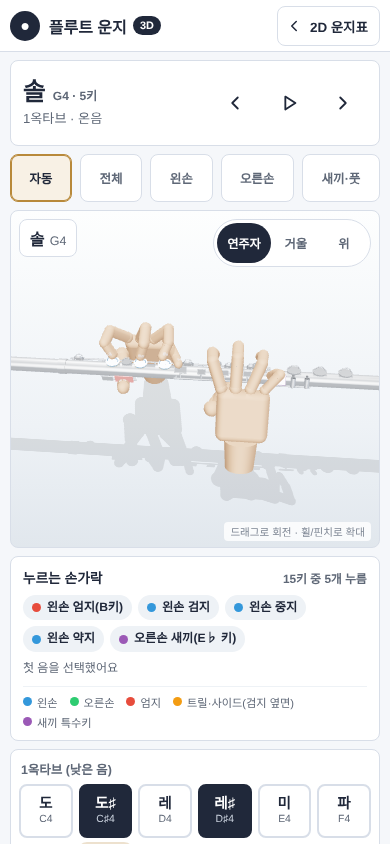
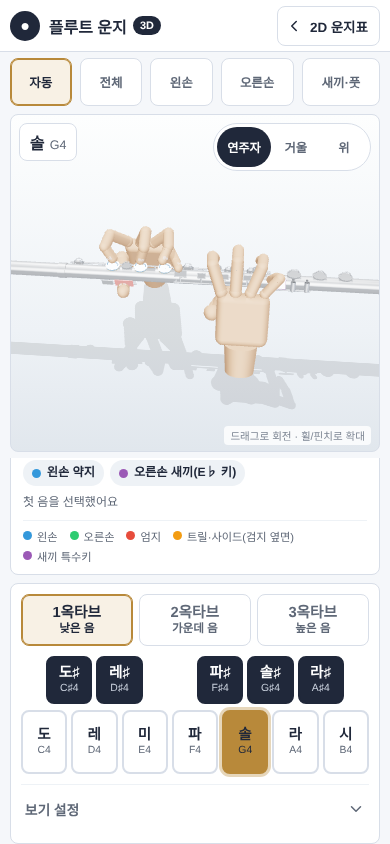
Simplify the 3D view's right panel
The panel showed 37 note buttons (dark/white mixed) plus four display
toggles at once, which pulled attention away from the 3D model.

- Show one octave's keyboard at a time: an octave switch (1/2/3) and a
  piano-style layout (naturals on the bottom row, sharps on the top row,
  offset between the naturals). Only the 3rd octave has the extra C7 key.
- Octave buttons move the current note to the same pitch class in that
  octave (same as the up/down arrow keys), so the selected key is always
  visible. Keyboard, prev/next and autoplay keep the keyboard in sync.
- The selected note is one gold key; the check badge is gone.
- Fold the display options into a collapsed "보기 설정" with four
  role="switch" rows and plain-language descriptions. The keyboard hint
  moves inside it and stays hidden on touch devices.
- Hover styles are limited to hover-capable devices; forced-colors and
  reduced-motion are handled.
- Update docs/3d-view.md and the 3D QA screenshots.

The fingering data block and qa/check-3d-data.mjs are untouched.

Claude-Session: https://claude.ai/code/session_01AGBZvwWJVfQoH8o65SEwUy

diff --git a/3d.html b/3d.html
@@ -152,42 +152,67 @@ main#app-main{width:min(100%,1280px);margin:0 auto;padding:8px 10px 24px;display
 .legend span{display:inline-flex;align-items:center;gap:5px}
 .legend i{width:9px;height:9px;border-radius:50%;display:inline-block}
 
-#side-panel{display:flex;flex-direction:column;gap:8px}
-#selector3d{padding:8px;background:var(--surface);border:1px solid var(--line);border-radius:var(--radius)}
-.octave + .octave{margin-top:10px}
-.octave h2{font-size:.78rem;color:var(--muted);font-weight:800;margin:2px 2px 6px}
-.note-grid{display:grid;grid-template-columns:repeat(6,minmax(0,1fr));gap:6px}
+/* 오른쪽 패널 — 한 장의 카드: ① 옥타브 고르기 ② 그 옥타브 건반 한 줄 ③ 접어 둔 「보기 설정」 */
+#side-panel{padding:10px;background:var(--surface);border:1px solid var(--line);border-radius:var(--radius)}
+#selector3d{display:grid;gap:10px;width:100%;max-width:480px;margin:0 auto}
+.octave-switch{display:grid;grid-template-columns:repeat(3,minmax(0,1fr));gap:6px}
+.octave-btn{
+  min-height:52px;padding:6px 4px;border:1px solid var(--line);border-radius:var(--radius);background:var(--surface);color:var(--muted);
+  cursor:pointer;display:flex;flex-direction:column;align-items:center;justify-content:center;gap:2px;line-height:1.15
+}
+.octave-btn b{font-size:.92rem;font-weight:800}
+.octave-btn span{font-size:.72rem;font-weight:650}
+.octave-btn[aria-pressed="true"]{color:var(--ink);border-color:var(--accent);background:#f8f1e5;box-shadow:inset 0 0 0 1px var(--accent)}
+/* 건반: 아래 줄 = 흰 건반(온음), 위 줄 = 검은 건반(반음). 검은 건반은 두 흰 건반 사이에 걸치도록 반 칸 어긋나게 놓는다 */
+.piano{display:grid;grid-template-rows:48px 64px;gap:6px 4px}
+.piano[hidden]{display:none}
+.piano.n7{grid-template-columns:repeat(14,minmax(0,1fr))}
+.piano.n8{grid-template-columns:repeat(16,minmax(0,1fr))}
 .note-btn{
-  position:relative;min-width:0;min-height:54px;padding:5px 3px;border:2px solid var(--line);border-radius:var(--radius);
+  min-width:0;padding:3px 2px;border:2px solid var(--line);border-radius:var(--radius);
   background:#fff;color:var(--ink);cursor:pointer;display:flex;flex-direction:column;align-items:center;justify-content:center;line-height:1.05
 }
+.note-btn.white{grid-row:2}
+.note-btn.black{grid-row:1;background:var(--ink);border-color:var(--ink);color:#fff}
 .note-btn .nb-ko{font-size:.91rem;font-weight:850}
 .note-btn .nb-en{font-size:.65rem;color:var(--muted);margin-top:3px;white-space:nowrap}
-.note-btn.black{background:var(--ink);border-color:var(--ink);color:#fff}
 .note-btn.black .nb-en{color:#c7cfdb}
-.note-btn.active{border-color:var(--accent);box-shadow:0 0 0 2px rgba(184,137,58,.25)}
-.note-btn.active::after{
-  content:"✓";position:absolute;top:2px;right:3px;width:15px;height:15px;border-radius:50%;display:grid;place-items:center;
-  background:var(--accent);color:#fff;font-size:.6rem;font-weight:900
+.note-btn.active,.note-btn.black.active{background:var(--accent);border-color:var(--accent);color:var(--ink);box-shadow:0 0 0 3px rgba(184,137,58,.35)}
+.note-btn.active .nb-en,.note-btn.black.active .nb-en{color:inherit}
+/* 보기 설정: 기본은 접힘 */
+#options3d{margin-top:10px;border-top:1px solid var(--surface-soft)}
+#options3d summary{
+  min-height:var(--tap);padding:0 4px;display:flex;align-items:center;justify-content:space-between;gap:8px;
+  color:var(--muted);font-size:.86rem;font-weight:750;cursor:pointer;list-style:none
 }
-#options3d{display:flex;flex-wrap:wrap;gap:8px;padding:8px;background:var(--surface);border:1px solid var(--line);border-radius:var(--radius)}
-#options3d h2{flex:1 0 100%;font-size:.78rem;color:var(--muted);font-weight:800;margin:2px 2px 0}
-.toggle-button{flex:1 1 auto;font-size:.82rem;padding:8px 10px}
-.toggle-button[aria-pressed="true"]{background:#f8f1e5;border-color:var(--accent);box-shadow:inset 0 0 0 1px var(--accent)}
-.kbd-note{flex:1 0 100%;font-size:.72rem;color:var(--muted);margin:2px}
+#options3d summary::-webkit-details-marker{display:none}
+#options3d .chev{transition:transform .15s}
+#options3d[open] .chev{transform:rotate(180deg)}
+.opt-list{display:grid;gap:2px;padding:0 0 4px}
+.opt-row{
+  width:100%;min-height:54px;padding:6px 6px;border:0;border-radius:var(--radius);background:transparent;color:var(--ink);cursor:pointer;
+  display:grid;grid-template-columns:minmax(0,1fr) auto;align-items:center;gap:12px;text-align:left
+}
+.opt-text{display:grid;gap:2px;min-width:0}
+.opt-label{font-size:.9rem;font-weight:750}
+.opt-desc{font-size:.74rem;color:var(--muted);line-height:1.35}
+.opt-switch{position:relative;flex:0 0 auto;width:44px;height:26px;border-radius:999px;background:#8b95a5;transition:background .15s}
+.opt-switch::after{
+  content:"";position:absolute;top:3px;left:3px;width:20px;height:20px;border-radius:50%;background:#fff;
+  box-shadow:0 1px 2px rgba(0,0,0,.3);transition:transform .15s
+}
+.opt-row[aria-checked="true"] .opt-switch{background:var(--accent)}
+.opt-row[aria-checked="true"] .opt-switch::after{transform:translateX(18px)}
+.kbd-note{padding:2px 6px 8px;font-size:.72rem;color:var(--muted)}
 footer{padding:6px 12px 22px;text-align:center;color:#7e8794;font-size:.72rem;line-height:1.5}
 
 /* 모바일: 3D 화면을 상단에 고정해 아래 음 목록을 넘기면서도 계속 보이게 */
 @media (max-width:1023px) and (min-height:600px){
   #viewer{position:sticky;top:var(--topbar-h);z-index:10;background:var(--app-bg);padding:6px 0;margin:-6px 0}
 }
-@media (min-width:560px){
-  .note-grid{grid-template-columns:repeat(13,minmax(0,1fr))}
-}
 @media (min-width:768px){
   main#app-main{padding:14px 20px 34px;gap:12px}
   #stage3d{height:clamp(340px,52vh,560px)}
-  .toggle-button{flex:0 1 auto}
 }
 @media (min-width:1024px){
   #app-topbar{padding:0 max(20px,calc((100vw - 1240px)/2))}
@@ -198,15 +223,23 @@ footer{padding:6px 12px 22px;text-align:center;color:#7e8794;font-size:.72rem;li
   #note-info{grid-area:summary}
   #viewer{grid-area:viewer}
   #finger-summary{grid-area:fingers}
-  #side-panel{grid-area:panel;position:sticky;top:calc(var(--topbar-h) + 12px);gap:12px}
+  #side-panel{grid-area:panel;position:sticky;top:calc(var(--topbar-h) + 12px)}
   #stage3d{height:clamp(380px,calc(100dvh - 330px),640px)}
-  .note-grid{grid-template-columns:repeat(6,minmax(0,1fr))}
+}
+@media (hover:hover){
+  .octave-btn:hover,.note-btn:not(.active):hover{border-color:var(--accent)}
+  .opt-row:hover{background:var(--surface-soft)}
+  #options3d summary:hover{color:var(--ink)}
 }
 @media (hover:none),(pointer:coarse){ .kbd-note{display:none} }
-@media (prefers-reduced-motion:reduce){ .spinner{animation:none} }
+@media (prefers-reduced-motion:reduce){ .spinner{animation:none} #options3d .chev,.opt-switch,.opt-switch::after{transition:none} }
 @media (forced-colors:active){
   .camera-button[aria-pressed="true"],.view-chip[aria-pressed="true"],.alt-tab[aria-pressed="true"],
-  .toggle-button[aria-pressed="true"],.note-btn.active{outline:3px solid Highlight;outline-offset:-3px}
+  .octave-btn[aria-pressed="true"],.note-btn.active{outline:3px solid Highlight;outline-offset:-3px}
+  .opt-switch{border:2px solid ButtonText;background:Canvas}
+  .opt-switch::after{background:ButtonText;box-shadow:none}
+  .opt-row[aria-checked="true"] .opt-switch{background:Highlight}
+  .opt-row[aria-checked="true"] .opt-switch::after{background:HighlightText;transform:translateX(14px)}
 }
 </style>
 </head>
@@ -215,6 +248,7 @@ footer{padding:6px 12px 22px;text-align:center;color:#7e8794;font-size:.72rem;li
 <svg class="icon-sprite" aria-hidden="true" focusable="false">
   <symbol id="icon-chevron-left" viewBox="0 0 24 24"><path d="m15 18-6-6 6-6"/></symbol>
   <symbol id="icon-chevron-right" viewBox="0 0 24 24"><path d="m9 18 6-6-6-6"/></symbol>
+  <symbol id="icon-chevron-down" viewBox="0 0 24 24"><path d="m6 9 6 6 6-6"/></symbol>
   <symbol id="icon-play" viewBox="0 0 24 24"><path d="m8 5 11 7-11 7z"/></symbol>
   <symbol id="icon-pause" viewBox="0 0 24 24"><path d="M9 5v14M15 5v14"/></symbol>
 </svg>
@@ -258,14 +292,20 @@ footer{padding:6px 12px 22px;text-align:center;color:#7e8794;font-size:.72rem;li
 
   <div id="side-panel">
     <section id="selector3d" aria-label="계이름 선택"></section>
-    <section id="options3d" aria-labelledby="options-title">
-      <h2 id="options-title">표시 옵션</h2>
-      <button class="secondary-button toggle-button" data-opt="hands" aria-pressed="true">손 보기</button>
-      <button class="secondary-button toggle-button" data-opt="ghost" aria-pressed="false">손 반투명</button>
-      <button class="secondary-button toggle-button" data-opt="diff" aria-pressed="true">변화 강조</button>
-      <button class="secondary-button toggle-button" data-opt="slow" aria-pressed="false">느리게 0.4×</button>
+    <details id="options3d">
+      <summary><span>보기 설정</span><svg class="icon icon-sm chev" aria-hidden="true"><use href="#icon-chevron-down"></use></svg></summary>
+      <div class="opt-list">
+        <button class="opt-row" role="switch" aria-checked="true" data-opt="hands" aria-labelledby="opt-hands-l" aria-describedby="opt-hands-d">
+          <span class="opt-text"><span class="opt-label" id="opt-hands-l">손 보이기</span><span class="opt-desc" id="opt-hands-d">끄면 플루트만 보여요</span></span><span class="opt-switch" aria-hidden="true"></span></button>
+        <button class="opt-row" role="switch" aria-checked="false" data-opt="ghost" aria-labelledby="opt-ghost-l" aria-describedby="opt-ghost-d">
+          <span class="opt-text"><span class="opt-label" id="opt-ghost-l">손 반투명</span><span class="opt-desc" id="opt-ghost-d">손 아래의 키가 비쳐 보여요</span></span><span class="opt-switch" aria-hidden="true"></span></button>
+        <button class="opt-row" role="switch" aria-checked="true" data-opt="diff" aria-labelledby="opt-diff-l" aria-describedby="opt-diff-d">
+          <span class="opt-text"><span class="opt-label" id="opt-diff-l">달라진 키 표시</span><span class="opt-desc" id="opt-diff-d">앞 음과 비교해 새로 누르거나 뗀 키에 링을 그려요</span></span><span class="opt-switch" aria-hidden="true"></span></button>
+        <button class="opt-row" role="switch" aria-checked="false" data-opt="slow" aria-labelledby="opt-slow-l" aria-describedby="opt-slow-d">
+          <span class="opt-text"><span class="opt-label" id="opt-slow-l">천천히 움직이기</span><span class="opt-desc" id="opt-slow-d">손 동작과 자동 재생을 0.4배속으로 해요</span></span><span class="opt-switch" aria-hidden="true"></span></button>
+      </div>
       <p class="kbd-note">키보드: ←/→ 반음 · ↑/↓ 옥타브</p>
-    </section>
+    </details>
   </div>
 </main>
 
@@ -362,7 +402,7 @@ const KEY_GROUP = Object.freeze({
 /* @DATA-SYNC-END */
 
 const SIDE_KEYS = ["bbSide","tr1","tr2"];
-const OCT_TITLES = { 1:"1옥타브 (낮은 음)", 2:"2옥타브 (가운데 음)", 3:"3옥타브 (높은 음)" };
+const OCT_LABELS = { 1:"낮은 음", 2:"가운데 음", 3:"높은 음" };
 const GROUP_HEX = { thumb:0xe74c3c, left:0x3498db, right:0x2ecc71, trill:0xf39c12, pinky:0x9b59b6 };
 const noteById = id => NOTES.find(n => n.id === id);
 const activeKeys = (note, altIndex) => (altIndex >= 0 && note.alt[altIndex]) ? note.alt[altIndex].keys : note.keys;
@@ -968,16 +1008,30 @@ function renderFingerSummary(ks, on, off, first){
     </div>`;
 }
 
+/* 음 고르기: 옥타브 3칸 + 고른 옥타브의 건반 한 벌만 보여 준다(나머지 둘은 hidden).
+   건반은 피아노처럼 — 아래 줄 흰 건반(온음), 위 줄 검은 건반(반음). 칸 번호는 흰 건반 2칸씩,
+   검은 건반은 앞 흰 건반의 뒤 칸부터 2칸이라 두 흰 건반 사이에 걸쳐 앉는다. */
 function buildSelector(){
-  $("selector3d").innerHTML = [1, 2, 3].map(oct => `
-    <div class="octave">
-      <h2>${OCT_TITLES[oct]}</h2>
-      <div class="note-grid">${NOTES.filter(n => n.oct === oct).map(n => {
-        const black = n.id.includes("s");
-        return `<button class="note-btn${black ? " black" : ""}" data-note="${n.id}" aria-pressed="false" aria-label="${n.oct}옥타브 ${n.ko} ${n.name}">
-          <span class="nb-ko">${n.ko.split("/")[0]}</span><span class="nb-en">${n.name.split("/")[0]}</span></button>`;
-      }).join("")}</div>
-    </div>`).join("");
+  const octaveSwitch = `<div class="octave-switch" role="group" aria-label="옥타브">${[1, 2, 3].map(oct =>
+    `<button class="octave-btn" data-octave="${oct}" aria-pressed="false"><b>${oct}옥타브</b><span>${OCT_LABELS[oct]}</span></button>`).join("")}</div>`;
+  const pianos = [1, 2, 3].map(oct => {
+    let whites = 0;
+    const keys = NOTES.filter(n => n.oct === oct).map(n => {
+      const black = n.id.includes("s");
+      const column = black ? 2 * whites : 2 * whites + 1;
+      if (!black) whites += 1;
+      return `<button class="note-btn ${black ? "black" : "white"}" style="grid-column:${column} / span 2" data-note="${n.id}" aria-pressed="false" aria-label="${n.oct}옥타브 ${n.ko} ${n.name}">
+        <span class="nb-ko">${n.ko.split("/")[0]}</span><span class="nb-en">${n.name.split("/")[0]}</span></button>`;
+    }).join("");
+    return `<div class="piano n${whites}" data-piano="${oct}" role="group" aria-label="${oct}옥타브 ${OCT_LABELS[oct]} 건반" hidden>${keys}</div>`;
+  }).join("");
+  $("selector3d").innerHTML = octaveSwitch + pianos;
+}
+
+function showOctave(oct){
+  document.querySelectorAll("#selector3d [data-piano]").forEach(piano => { piano.hidden = Number(piano.dataset.piano) !== oct; });
+  document.querySelectorAll("#selector3d .octave-btn").forEach(button =>
+    button.setAttribute("aria-pressed", String(Number(button.dataset.octave) === oct)));
 }
 
 function stateQuery(){
@@ -1014,6 +1068,7 @@ function selectNote(noteId, opts = {}){
     button.classList.toggle("active", active);
     button.setAttribute("aria-pressed", String(active));
   });
+  showOctave(note.oct);
   $("stage-label").innerHTML = `<b>${note.ko}</b>${note.name}${altIndex >= 0 ? ` · ${note.alt[altIndex].name}` : ""}`;
   const link2d = `./?${stateQuery()}&mode=learn`;
   $("back-2d").setAttribute("href", link2d);
@@ -1097,8 +1152,14 @@ function initialSelection(){
 
 function bindUi(){
   $("selector3d").addEventListener("click", event => {
-    const button = event.target.closest("[data-note]");
-    if (button) selectNote(button.dataset.note, { source:"tap" });
+    const key = event.target.closest("[data-note]");
+    if (key){ selectNote(key.dataset.note, { source:"tap" }); return; }
+    const octave = event.target.closest("[data-octave]");
+    if (!octave) return;
+    // 옥타브를 바꾸면 지금 음을 그 옥타브의 같은 계이름으로 옮긴다 (↑/↓ 키와 같은 동작) — 건반에는 늘 고른 음이 보인다
+    const cur = noteById(state.noteId), target = Number(octave.dataset.octave);
+    const same = cur && cur.oct !== target && NOTES.find(n => n.oct === target && n.midi % 12 === cur.midi % 12);
+    if (same) selectNote(same.id, { source:"tap" });
   });
   $("note-info").addEventListener("click", event => {
     const alt = event.target.closest("[data-alt]");
@@ -1125,7 +1186,7 @@ function bindUi(){
   document.querySelectorAll("[data-opt]").forEach(button => button.addEventListener("click", () => {
     const key = button.dataset.opt;
     state.opts[key] = !state.opts[key];
-    button.setAttribute("aria-pressed", String(state.opts[key]));
+    button.setAttribute("aria-checked", String(state.opts[key]));
     if (key === "hands") viewer?.setHandsVisible(state.opts.hands);
     if (key === "ghost") viewer?.setGhost(state.opts.ghost);
     if (key === "slow") speed = state.opts.slow ? 0.4 : 1;
@@ -1153,6 +1214,7 @@ function webgl2Available(){
 buildSelector();
 bindUi();
 const start = initialSelection();
+showOctave(noteById(start.id).oct);   // 3D를 불러오는 동안에도 처음부터 맞는 옥타브 건반이 보이게
 
 if (!webgl2Available()){
   window.__flute3d.failed = true;

diff --git a/docs/3d-view.md b/docs/3d-view.md
@@ -36,7 +36,7 @@ node qa/check-3d-data.mjs
 | 1. 운지 데이터 | `index.html`과 같은 선언 |
 | 2. 앱 상태 | `noteId` · `altIndex` · `region`(auto/all/left/right/foot/free) · `view`(player/mirror/top) · 표시 옵션 |
 | 3. 3D 뷰어 `createViewer()` | 장면 · 플루트 · 15키 · 손 · 손가락 IK 솔버 · 카메라. 밖에는 `show(keys, {on, off, diff})`, `frame(region)`, `setView()`, `setHandsVisible()`, `setGhost()`만 노출 → **메시를 Blender GLB로 바꿔도 UI 코드는 그대로** |
-| 4. 화면(UI) | 2D 앱 컴포넌트(음 정보 카드 · 보기 영역 버튼 · 계이름 버튼 · 대체 운지 탭)와 같은 모양·문구 |
+| 4. 화면(UI) | 음 정보 카드 · 보기 영역 버튼 · 대체 운지 탭은 2D 앱 컴포넌트와 같은 모양·문구. **오른쪽 패널(음 고르기·보기 설정)은 3D 전용으로 단순화**(아래 「오른쪽 패널」) |
 | 5. 시작 | UI를 먼저 그리고, WebGL 2가 될 때만 Three.js를 동적으로 불러옴. 안 되면 안내 문구 + 2D 링크 |
 
 ### 동작
@@ -48,6 +48,17 @@ node qa/check-3d-data.mjs
 - **카메라**: 「자동」이면 바뀐 키가 몰린 영역으로 이동합니다(2D `deriveCameraPreset`과 같은 규칙). 사용자가 직접 돌리거나 확대하면 자동 이동을 멈춥니다.
 - **렌더링**: 애니메이션·조작 중에만 그립니다(대기 중 0fps, 모바일 배터리 절약).
 - **소리**: 3D 화면에는 없습니다. 소리는 2D 앱에서 재생됩니다.
+
+### 오른쪽 패널 (음 고르기 · 보기 설정)
+
+처음 버전은 음 버튼 37개와 표시 옵션 4개가 한꺼번에 보여서 복잡했습니다. 지금은 한 장의 카드로 줄였습니다.
+
+- **옥타브 3칸 + 건반 한 벌**: 「1옥타브 낮은 음 / 2옥타브 가운데 음 / 3옥타브 높은 음」 중 고른 옥타브의 건반만 보입니다(나머지는 `hidden`이라 탭 순서에서도 빠집니다).
+- **피아노 배치**: 아래 줄은 흰 건반(온음), 위 줄은 검은 건반(반음)이고, 검은 건반은 두 흰 건반 사이에 걸치도록 반 칸 어긋나게 놓습니다(14칸 그리드). 3옥타브만 C7까지 흰 건반이 8개입니다(16칸).
+- **옥타브 버튼 = 지금 음을 같은 계이름으로 옮김**: D♯5에서 「3옥타브」를 누르면 D♯6이 됩니다(↑/↓ 키와 같은 동작). 그래서 건반에는 항상 선택한 음이 보입니다. 키보드 ←/→/↑/↓, 이전/다음 버튼, 자동 재생으로 음이 바뀌어도 건반이 그 옥타브로 따라갑니다.
+- **선택한 음**은 금색(`--accent`) 채움 하나로 표시합니다(예전의 ✓ 배지는 뺐습니다). 강제 색상 모드에서는 3px 윤곽선으로 보입니다.
+- **보기 설정**(손 보이기 · 손 반투명 · 달라진 키 표시 · 천천히 움직이기)은 기본으로 접혀 있고, 펼치면 `role="switch"` 스위치 4개와 키보드 안내가 나옵니다. 기본값은 손 켬 · 반투명 끔 · 달라진 키 켬 · 천천히 끔입니다.
+- 코드는 `buildSelector()`(건반 생성) · `showOctave()`(옥타브 전환) · `bindUi()`의 `#selector3d` 클릭 처리에 있습니다. 옥타브 1~3과 흰 건반 7~8개(14·16칸)를 가정하므로, 음 범위를 넓히면 `buildSelector()`와 CSS의 `.piano.n7` · `.piano.n8`을 함께 고치세요.
 
 ## 좌표 · 자세 규약
 
@@ -89,5 +100,6 @@ node qa/check-3d-data.mjs
 - 2D 배우기 모드에서만 「3D로 보기」가 보이고(퀴즈·직접 누르기에서는 숨김), 누르면 같은 음·대체 운지로 열린다.
 - 3D에서 음을 바꾼 뒤 「2D 운지표」로 돌아가면 그 음이 선택돼 있다.
 - 함정 음 D4·D5·D6, 대체 운지 A♯4(3종), 롤러 C4·C♯4, 트릴 B♭6·B6의 손가락이 해당 키에 닿는다.
+- 오른쪽 패널: 옥타브 버튼을 누르면 같은 계이름으로 옮겨지고 건반에 선택한 음(금색)이 보인다. C7은 3옥타브에서만 있다. 「보기 설정」은 접혀 있고 펼치면 스위치 4개가 나온다.
 - 앱을 한 번 연 뒤 오프라인에서 2D·3D 화면이 각각 제대로 열린다.
 - WebGL을 끈 브라우저에서 안내 문구와 2D 링크가 나온다.
